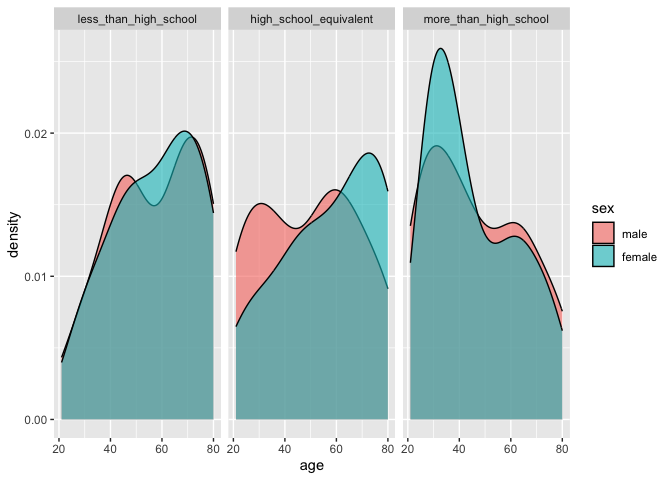
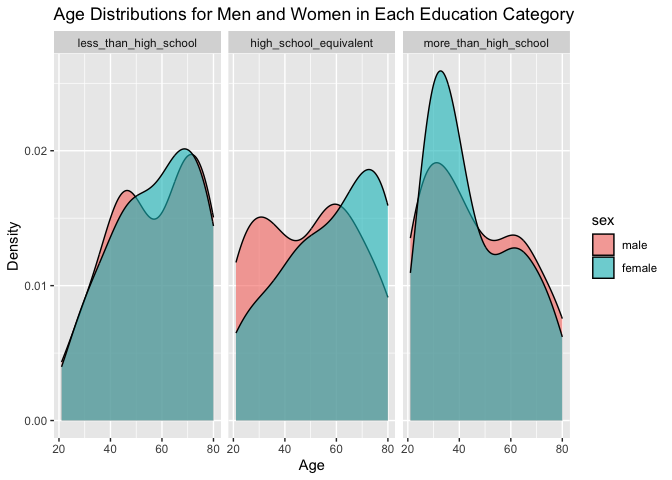
Finish all. Version 1

diff --git a/P8105_hw3_lc3807.md b/P8105_hw3_lc3807.md
@@ -1,7 +1,7 @@
 p8105_hw3_lc3807.Rmd
 ================
 Linshen Cai
-2023-10-12
+2023-10-13
 
 ## Problem 1
 
@@ -252,7 +252,7 @@ nhanes_accel = read.csv("./data/nhanes_accel.csv") |>
   janitor::clean_names()|> 
   pivot_longer(
     min1:min1440,
-    names_to = "minute",
+    names_to = "minutes",
     values_to = "mims_value")
 # merge two dataframes
 
@@ -276,14 +276,78 @@ nhanes_count = nhanes_merge |>
 nhanes_covar |> 
   ggplot(aes(x = age , fill = sex,))+
   geom_density(alpha = 0.6)+
-  facet_grid(~education)
+  facet_grid(~education) +
+  labs(title = "Age Distributions for Men and Women in Each Education Category",
+       x = "Age",
+       y = "Density")
 ```
 
 ![](P8105_hw3_lc3807_files/figure-gfm/unnamed-chunk-11-1.png)<!-- -->
+
 According to table, there are no big difference between the number male
 and the number of female in each in each education category. However, in
 education category “More Than High School”, the number of female with
 age between 25 and 40 is much larger than the number of female with same
-age based on density plot.
+age based on density plot. In other words, in more than high school
+level, female has a slightly younger age.
 
 ## Create a total activity variable for each participant. Plot these total activities against age
+
+``` r
+# Create a table with total activity variable
+nhanes_total_activity = nhanes_merge |>
+  group_by(seqn,age,sex,education) |> 
+  summarise(total_activity = sum(mims_value)) 
+```
+
+    ## `summarise()` has grouped output by 'seqn', 'age', 'sex'. You can override
+    ## using the `.groups` argument.
+
+``` r
+# Plot these total activities against age
+nhanes_total_activity |> 
+  ggplot(aes(x = age, y = total_activity, color = sex)) +
+  geom_point() +
+  geom_smooth(se = FALSE) +
+  facet_grid(. ~ education) +
+  labs(
+    title = "Total Activity against Age",
+    x = "Age",
+    y = "Total Activiy"
+  )
+```
+
+    ## `geom_smooth()` using method = 'loess' and formula = 'y ~ x'
+
+![](P8105_hw3_lc3807_files/figure-gfm/unnamed-chunk-12-1.png)<!-- -->
+
+Both genders’ overall activity tends to decline with age. Women are more
+active overall before the age of 40 when they fall into the “Less than
+high school education” group. Women exhibit more overall activity in the
+“High school equivalent” category across most age groups. Similar to the
+previous group, females consistently exhibit higher overall activity
+across all age ranges in the “More than high school education” category.
+
+``` r
+# create a dataframe for plot
+nhanes_merge |> 
+  mutate(minutes = str_remove_all(minutes, "min"),
+         minutes = as.numeric(minutes)) |>
+  arrange(minutes) |>
+# Make three-panel plot
+  ggplot(aes(x = minutes, y = mims_value, color = sex)) +
+  geom_point(alpha = 0.3) +
+  facet_wrap(~ education) +
+  geom_smooth(se = FALSE) +
+  labs(title = "24-hour Activity Time Courses for Each Education Level and Sex",
+       x = "Time",
+       y = "MIMS Value")+
+  theme_minimal()
+```
+
+    ## `geom_smooth()` using method = 'gam' and formula = 'y ~ s(x, bs = "cs")'
+
+![](P8105_hw3_lc3807_files/figure-gfm/unnamed-chunk-13-1.png)<!-- -->
+
+Based on the chart, I found that regardless of education level, men and
+women have the same activi trends throughout the 24-hours a day.
